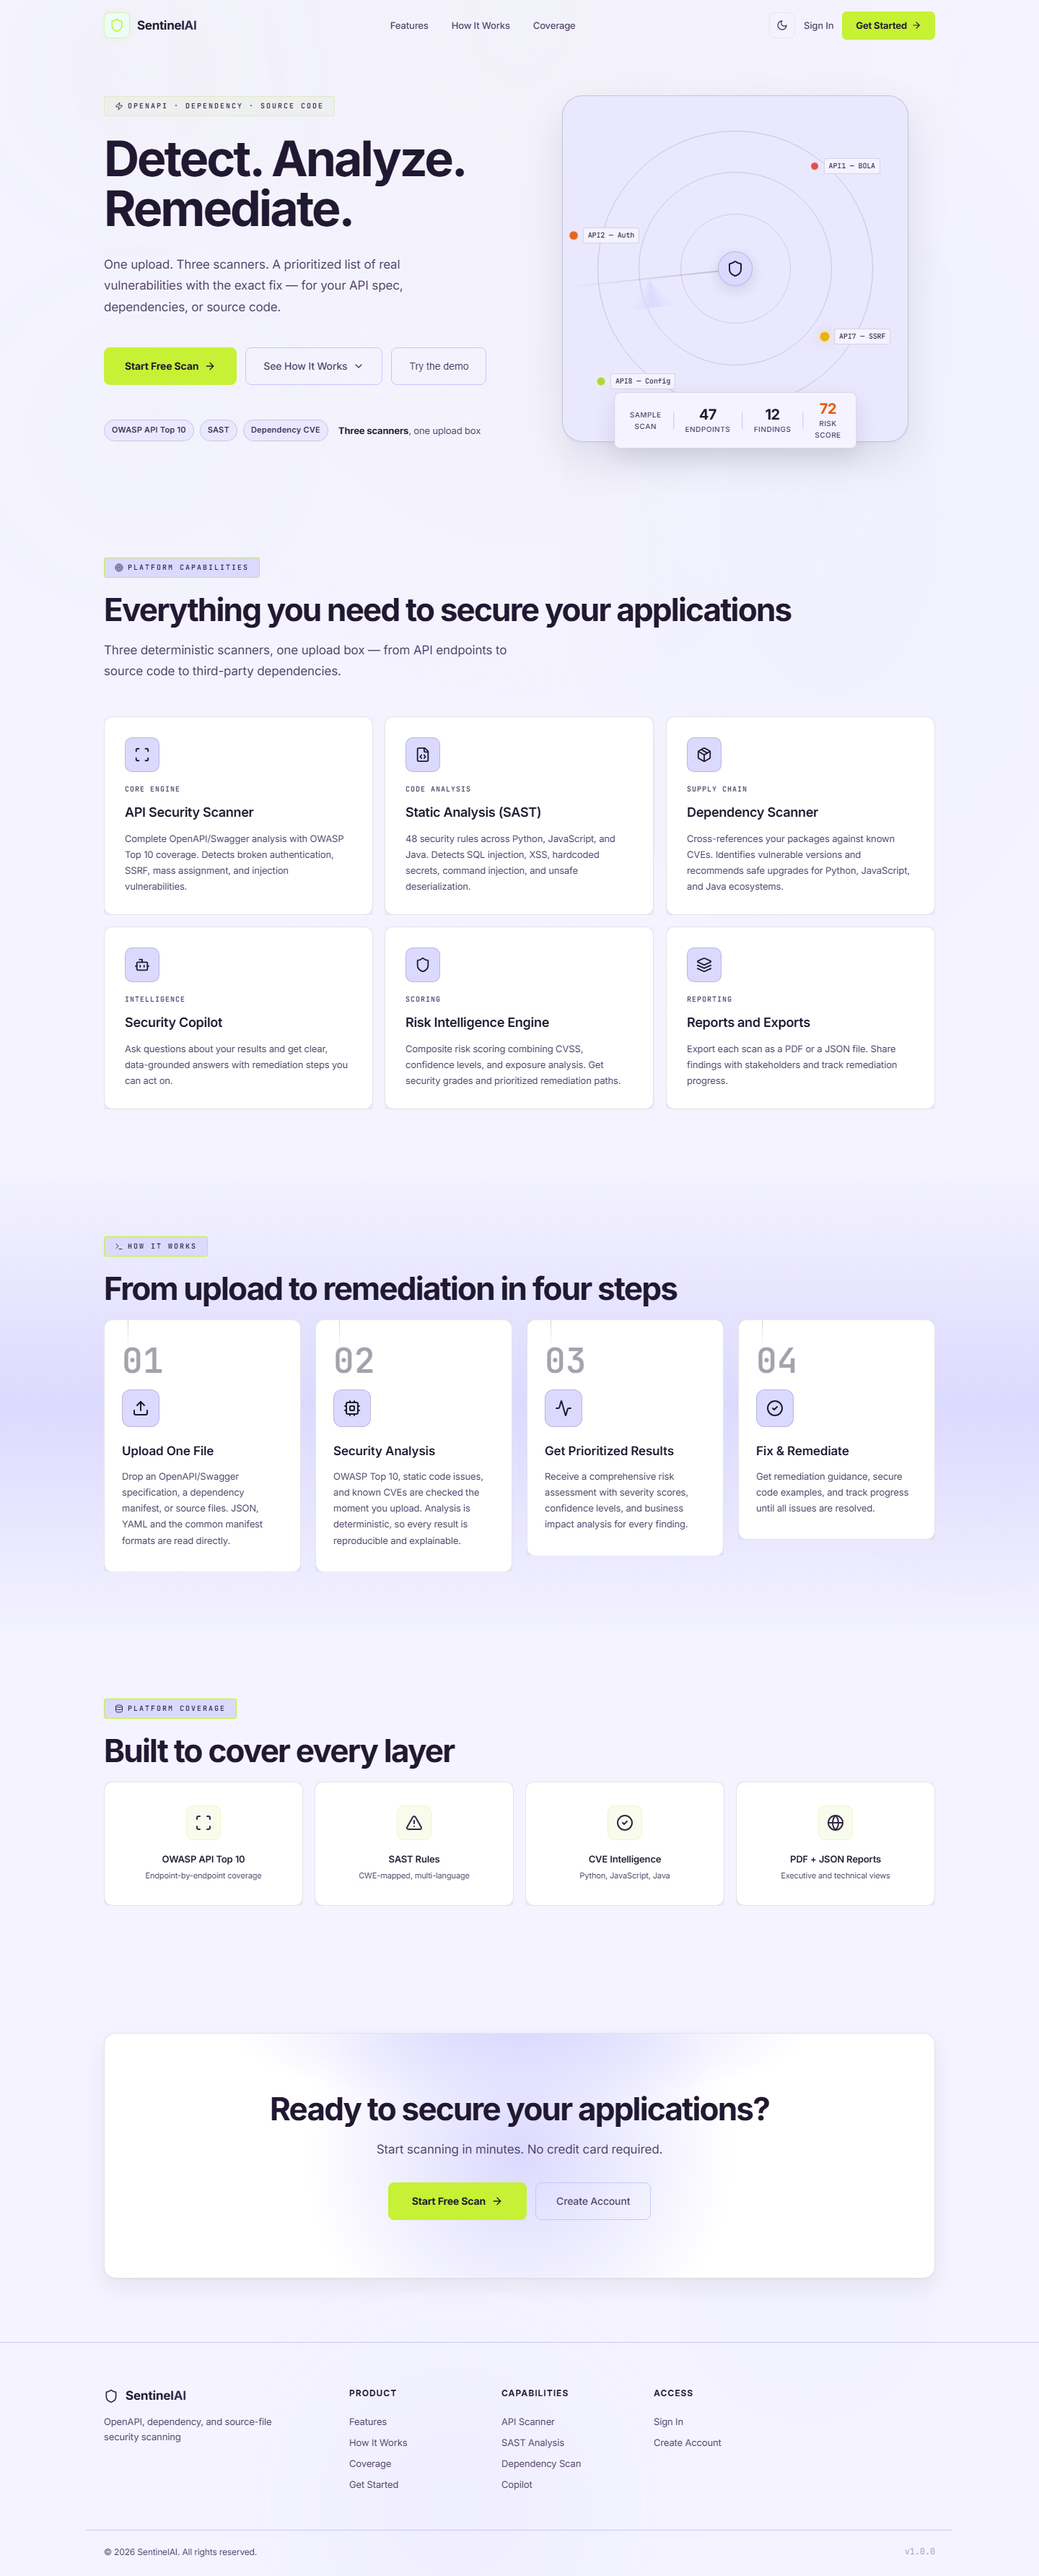
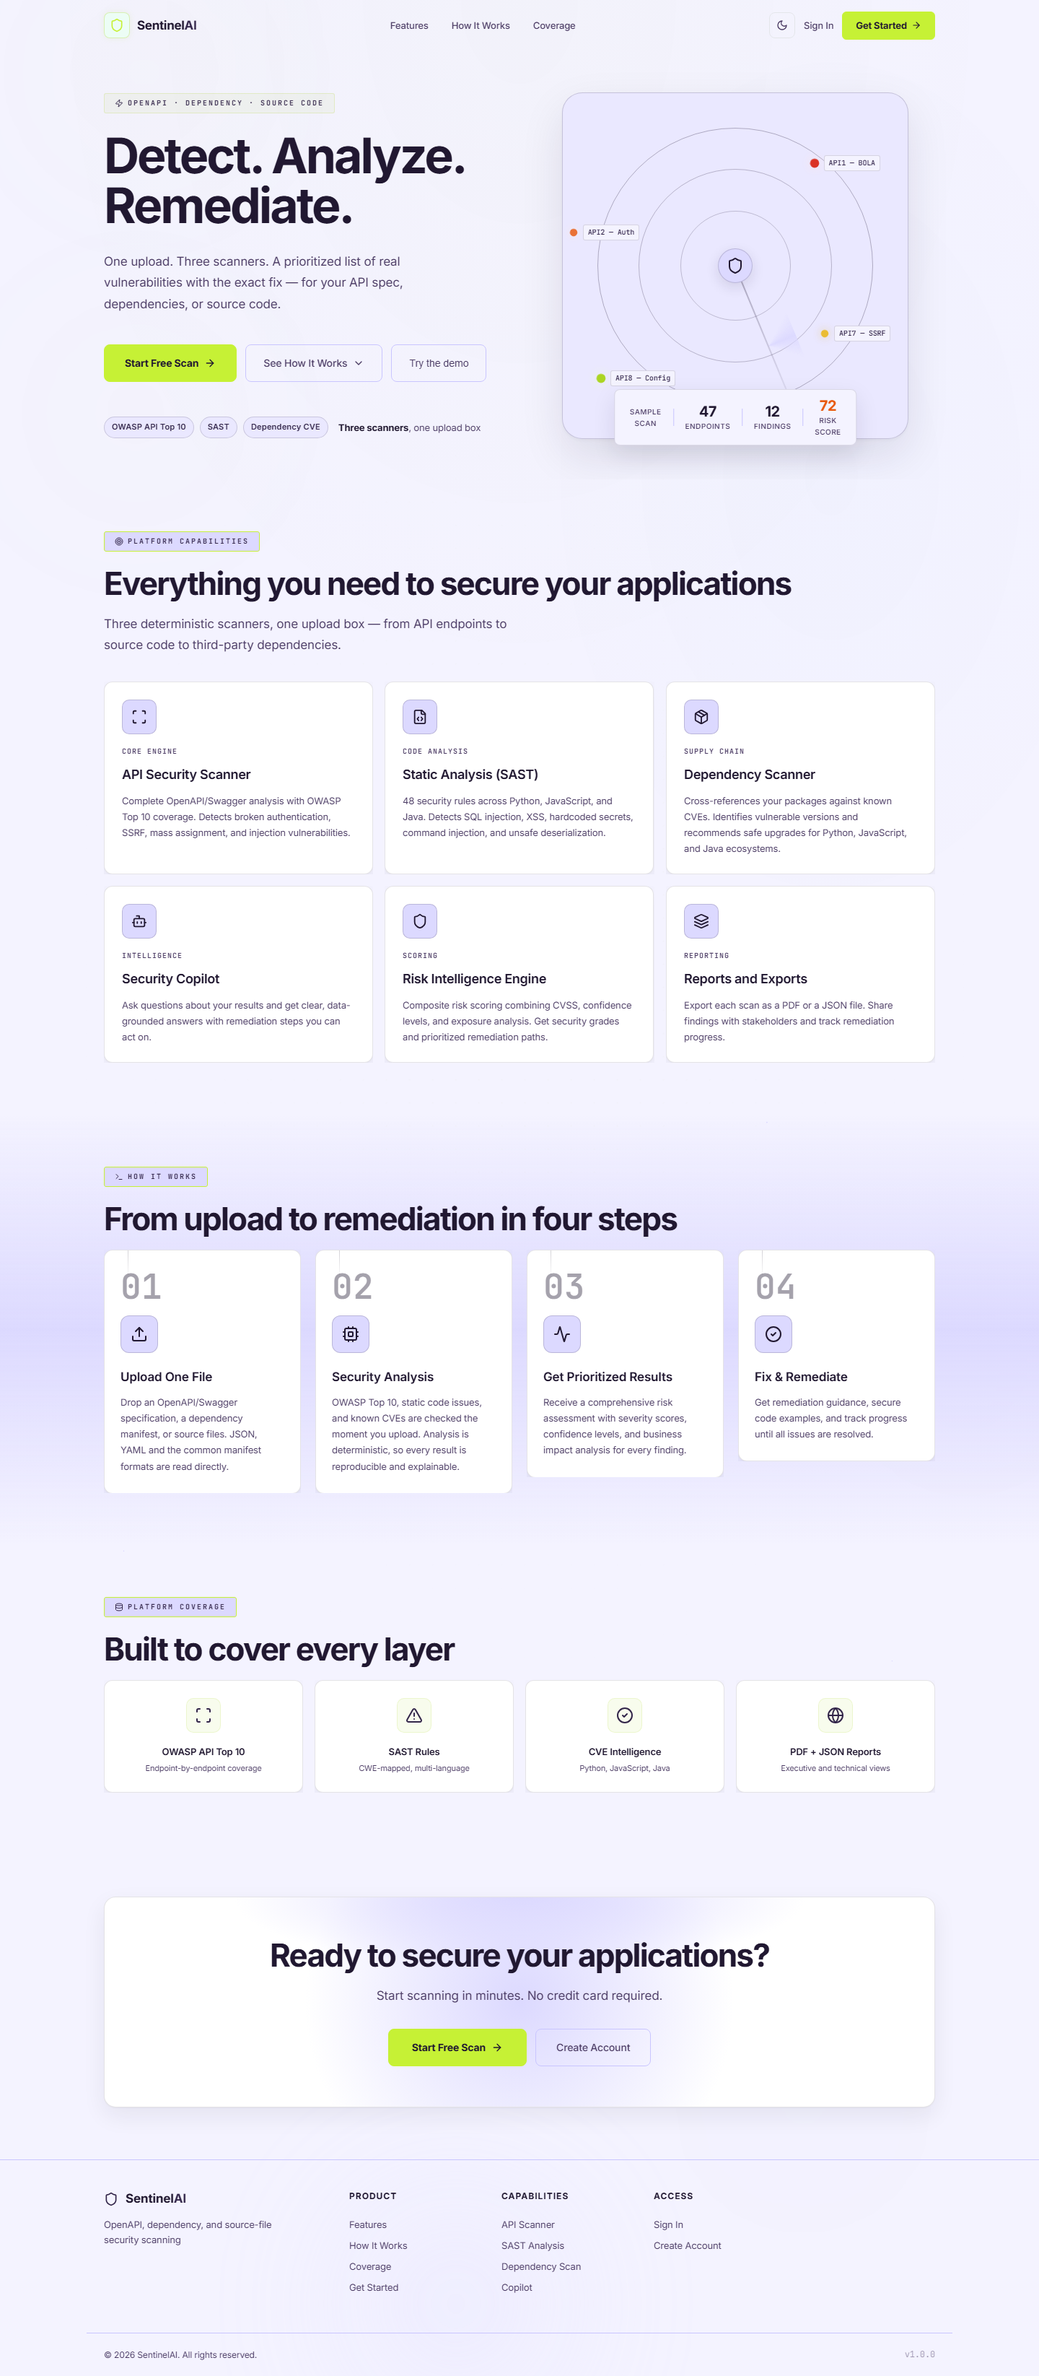
docs(screenshots): capture light and dark landing from 70c6fef
Refresh every page capture from the deployed build, add the dark-theme
landing, and record the new dimensions and measured values in the evidence.

🤖 Generated with Codebuff

diff --git a/docs/EVIDENCE-FINAL.md b/docs/EVIDENCE-FINAL.md
@@ -348,41 +348,46 @@ No page error was raised on any of the routes loaded during the verification pas
 
 ## 11. Screenshots
 
-All 11 page captures were taken from `https://sentinelai-web.vercel.app` at DPR 1
-with the Playwright-installed Chromium (driven over CDP), **after** the `a38693e`
-deploy. The live site served that build at capture time: its `index.html` referenced
-`/assets/index-CAZqVTQI.js` and `/assets/index-DlkA6sry.css`, byte-identical to the
-local `frontend/dist` from the same commit. Every capture is full-page; `login.png`
+All page captures were taken from `https://sentinelai-web.vercel.app` at DPR 1
+with the Playwright-installed Chromium (driven over CDP), **after** the `70c6fef`
+deploy. The live `index.html` served `/assets/index-0z65gU5H.js`, byte-identical to
+the local `frontend/dist` from that commit. Every capture is full-page; `login.png`
 is the full 900px login page. Each file was decoded with Pillow and counted for
 distinct RGB values, so none is blank or a placeholder.
 
 | File | Route | Session | Pixels | Distinct colours |
 |---|---|---|---|---|
-| `landing.png` | `/` | anonymous | 1440x3567 | 8951 |
-| `landing-mobile.png` | `/` | anonymous | 390x6952 | 9302 |
+| `landing.png` | `/` | anonymous, light | 1440x3291 | 8974 |
+| `landing-mobile.png` | `/` | anonymous, light | 390x6708 | 9334 |
+| `landing-dark.png` | `/` | anonymous, dark | 1440x3291 | 10085 |
 | `reports.png` | `/reports` | demo | 1440x1021 | 6172 |
 | `reports-mobile.png` | `/reports` | demo | 390x1423 | 7254 |
 | `scan-detail.png` | `/scan/4` | demo | 1440x3328 | 12713 |
 | `scan-detail-mobile.png` | `/scan/4` | demo | 390x5587 | 17009 |
 | `coverage.png` | `/coverage` | demo | 1440x1455 | 7053 |
 | `scans-new.png` | `/scans/new` | demo | 1440x1185 | 6956 |
-| `beta-dashboard.png` | `/beta/dashboard` | demo | 1440x1690 | 8308 |
+| `beta-dashboard.png` | `/beta/dashboard` | demo | 1440x1690 | 8401 |
 | `copilot.png` | `/beta/copilot` | demo | 1440x1099 | 8607 |
 | `login.png` | `/login` | signed out | 1440x900 | 5274 |
 
-`reports-badge-before.png` and `reports-badge-after.png` are the 300x48 contrast
-crops from section 6. They are evidence for that earlier fix, not captures of this
-build.
+`landing-before-dark.png` (1440x900, 6891 colours) is the historical landing capture
+from commit `87c2968`, kept for the before/after comparison in
+`docs/PROJECT-PREVIEW.md`; it is not a capture of this build. The two
+`reports-badge-*.png` files are the 300x48 contrast crops from section 6.
 
 Measured in the same session, from the live page:
 
 ```
 1440x900  /            data-theme="light"; body background rgb(244, 243, 255)
                        h1 innerText "Detect. Analyze. Remediate."
+                       .hero-content and .hero-visual share a parent (siblings=true)
                        .hero-content x=144 w=571 h=478, .hero-visual x=779 w=517 h=480
-                       siblings=true, boxes intersect=false, radar 480x480
-                       hero content bottom -> features badge top = 161px
+                       boxes intersect=false, radar 480x480
+                       hero content bottom -> features badge top = 143px
+                       document height = 3291px
                        .fade-in elements with opacity<1 = 0; section opacity = 1,1,1,1,1
+1440x900  / dark       data-theme="dark"; body rgb(33, 24, 49)
+                       feature card rgb(55, 42, 78); ring border bloom at 22%
 390x844   /            scrollWidth 390 === innerWidth 390
                        brand innerText "SentinelAI", right edge 144, not clipped
                        nav CTA height 40px, white-space nowrap, right edge 374
@@ -401,11 +406,17 @@ file, a log, or this document.
 
 `/authorized-use` was NOT captured: it redirects to `/login` even with a demo session.
 
-13 files = 11 page captures + 2 historical crops. All 11 page captures are unique.
+15 files = 12 page captures of this build + 1 historical landing + 2 contrast crops.
+All 12 current page captures are unique.
 
-Seven were inspected by eye after capture: `landing.png`, `landing-mobile.png`,
-`reports.png`, `reports-mobile.png`, `scan-detail.png`, `scan-detail-mobile.png`,
-`scans-new.png`.
+Inspected by eye after capture: `landing.png`, `landing-dark.png`,
+`landing-mobile.png`, `reports.png`, `reports-mobile.png`, `scan-detail.png`,
+`scan-detail-mobile.png`, `scans-new.png`.
+
+The recruiter-facing summary of this evidence is
+[`docs/PROJECT-PREVIEW.md`](PROJECT-PREVIEW.md); CV wording is checked claim by claim
+against the product in
+[`docs/CV-SENTINELAI-ALIGNMENT.md`](CV-SENTINELAI-ALIGNMENT.md).
 
 ---
 
@@ -421,16 +432,16 @@ to it. Runbook P7 remains the only deliberately-off optional item.
 
 | Safe to claim (evidence above) | Not safe to claim |
 |---|---|
-| CI is 8/8 green on `a38693e`, including Docker build and Deployment smoke | CI has always been green |
+| CI is 8/8 green on `70c6fef` (run 44354201085), including Docker build and Deployment smoke | CI has always been green |
 | Zero raw colour literals in `src` outside `tokens.css`, including named colours | Every colour in the product is a semantic token |
 | Every CSS chunk in `dist` is free of hex except the token definitions; deployed main CSS brand/emerald = 0 | Third-party assets are tokenised |
 | Headings and cards share one gutter on `/reports`, `/coverage`, `/scans/new`, `/beta/*` at 1440 and 390 | Every page was checked at every breakpoint |
 | No horizontal page scroll at 390 on the audited routes | Mobile has been tested on real devices |
 | Banner `innerText` is exactly "Beta — not part of the core workflow. Back to the app" | The banner is localised |
 | Copy states the Copilot is rule-based; `/ai/*` Ollama is documented as unused and unreachable by default | The `/ai/*` endpoints were exercised end to end |
-| At verification the live API returned commit a38693e, the same commit the live web build served. |
+| At verification the live API returned commit `70c6fef`, the same commit the live web build served. |
 | mypy clean (168 files); ruff and black pass; suite 1090/2/17 on unchanged backend | The backend suite was re-run in this pass |
-| 11 page captures (+2 historical contrast crops) from the deployed a38693e build | Screenshots cover every page and state |
+| 12 page captures (including light and dark landing) from the deployed `70c6fef` build | Screenshots cover every page and state |
 | AgentGuard is documented as not enabled | AgentGuard works |
 
 ### Known residue (documented, not defects)

diff --git a/docs/PROJECT-PREVIEW.md b/docs/PROJECT-PREVIEW.md
@@ -10,7 +10,7 @@ prioritized, reproducible findings with a fix instruction for each.
 | API health | https://sentinelai-api.vercel.app/api/health — HTTP 200 |
 | API version | https://sentinelai-api.vercel.app/api/v1/version |
 | Source | https://github.com/shashu123456/SentinelAI |
-| CI | [run 44347054492](https://github.com/shashu123456/SentinelAI/actions/runs/44347054492) — 8/8 jobs green |
+| CI | [run 44354201085](https://github.com/shashu123456/SentinelAI/actions/runs/44354201085) — 8/8 jobs green |
 
 > The health route is `/api/health` (or `/api/v1/health`). `/health` returns 404.
 
@@ -52,7 +52,7 @@ engine.
 
 ## Screenshots
 
-All captured from the deployed site at DPR 1, after the `a38693e` build.
+All captured from the deployed site at DPR 1, after the `70c6fef` build.
 
 **Landing — desktop**
 
@@ -69,6 +69,10 @@ All captured from the deployed site at DPR 1, after the `a38693e` build.
 **Reports — mobile**: stacked cards, bottom navigation.
 
 ![Reports page, mobile](screenshots/reports-mobile.png)
+
+**Landing — dark theme**: the same page after toggling the theme; the choice persists.
+
+![Landing page, dark theme](screenshots/landing-dark.png)
 
 **Scan detail**: summary and severity breakdown above the findings, fix instruction
 visible, technical detail collapsed.
@@ -109,12 +113,12 @@ a Docker build, and a post-deploy smoke test.
 
 | Evidence | Value |
 |---|---|
-| CI run | 44347054492 on `6faabf3` — 8/8 jobs green (backend tests, backend lint & type check, frontend test & build, CodeQL python, CodeQL javascript, secret scanning, Docker build, deployment smoke) |
+| CI run | 44354201085 on `70c6fef` — 8/8 jobs green (backend tests, backend lint & type check, frontend test & build, CodeQL python, CodeQL javascript, secret scanning, Docker build, deployment smoke) |
 | Backend tests | 1,090 passed / 2 skipped in the last full local run (`docs/EVIDENCE-FINAL.md` §7); the CI `Backend tests` job is green |
 | Frontend tests | 35 passed / 35 (`npm test` in `frontend`) |
-| Live API | `/api/v1/version` returned commit `6faabf3` at the time of this file |
+| Live API | `/api/v1/version` returned commit `70c6fef` at the time of this file |
 | HTTP surface | 182 route decorators (`@router.get|post|put|patch|delete`) across the routers in `backend/app/api` |
-| Screenshots | 13 files in `docs/screenshots`; the 11 page captures are listed in `docs/EVIDENCE-FINAL.md` §11 with pixel dimensions and colour counts |
+| Screenshots | 15 files in `docs/screenshots`; the 12 current page captures are listed in `docs/EVIDENCE-FINAL.md` §11 with pixel dimensions and colour counts |
 
 ## Honest boundaries
 
@@ -143,5 +147,5 @@ text column, so the page read as a single faint column.
 
 ![Landing after, bloom-first light theme](screenshots/landing.png)
 
-*After — capture from the deployed `a38693e` build, full page at 1440px: two-column
+*After — capture from the deployed `70c6fef` build, full page at 1440px: two-column
 hero with a 480px radar panel, white cards on bloom surfaces, volt only on actions.*
